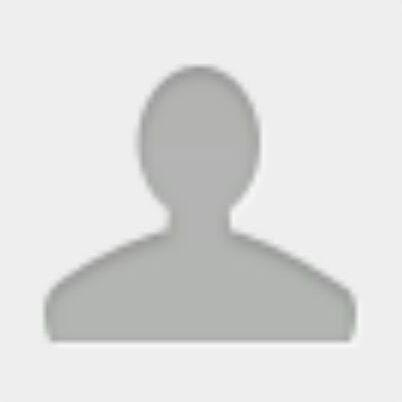
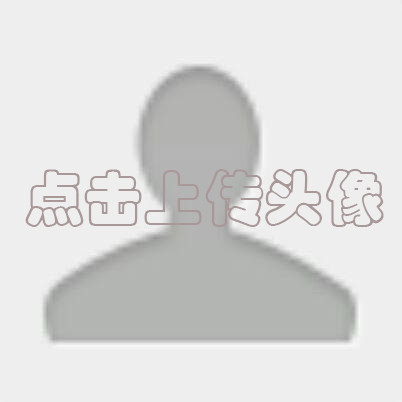
添加头像

Changed region(s): [[0.4478, 0.4179, 0.9552, 0.5672], [0.0597, 0.4179, 0.4478, 0.5672]]

diff --git a/oa/src/main/resources/templates/newPersonnelForm.html b/oa/src/main/resources/templates/newPersonnelForm.html
@@ -43,7 +43,29 @@
         width: 140px;
         height: 140px;
         border-radius: 20px;
-    }</style>
+    }
+
+    #filesdiv {
+        width: 140px;
+        margin: 0 auto;
+        /*background-color: #00B83F;*/
+        /*background:url('img/touxiang.jpg');*/
+        position:relative;
+    }
+
+    #files {
+        height: 140px;
+        width: 140px;
+        overflow: hidden;
+        font-size: 300px;
+        position: absolute;
+        right: 0;
+        top: 0;
+        opacity: 0;
+        filter: alpha(opacity=0);
+        cursor: pointer;
+    }
+</style>
 
 <body>
 <div id="container">
@@ -97,12 +119,9 @@
                             </div>
                         </div>
                         <div style="float: left; width: 255px;">
-                            <div style="width: 140px; margin:0 auto;">
-                                <img src="../img/touxiang.jpg" class="upload_view" id="view">
+                            <div id="filesdiv">
                                 <input id="files" type="file" onchange="chan(this)" name="pictureFile"/>
-                                <!--<div style="margin: 0 auto;"><label >头像</label></div>-->
-                                <script>
-                                </script>
+                                <img src="../img/touxiang.jpg" class="upload_view" id="view">
                             </div>
                         </div>
                     </div>

diff --git a/oa/src/main/resources/templates/updatePersonnelForm.html b/oa/src/main/resources/templates/updatePersonnelForm.html
@@ -43,7 +43,28 @@
         width: 140px;
         height: 140px;
         border-radius: 20px;
-    }</style>
+    }
+    #filesdiv {
+        width: 140px;
+        margin: 0 auto;
+        /*background-color: #00B83F;*/
+        /*background:url('img/touxiang.jpg');*/
+        position:relative;
+    }
+
+    #files {
+        height: 140px;
+        width: 140px;
+        overflow: hidden;
+        font-size: 300px;
+        position: absolute;
+        right: 0;
+        top: 0;
+        opacity: 0;
+        filter: alpha(opacity=0);
+        cursor: pointer;
+    }
+</style>
 
 <body>
 <div id="container">
@@ -96,12 +117,9 @@
                             </div>
                         </div>
                         <div style="float: left; width: 255px;">
-                            <div style="width: 140px; margin:0 auto;">
-                                <img th:src="@{'avatar/'+${accountMessage.aMavatar}}"
-                                     class="upload_view" id="view">
+                            <div id="filesdiv">
                                 <input id="files" type="file" onchange="chan(this)" name="pictureFile"/>
-                                <script>
-                                </script>
+                                <img src="../img/touxiang.jpg" class="upload_view" id="view">
                             </div>
                         </div>
                     </div>
